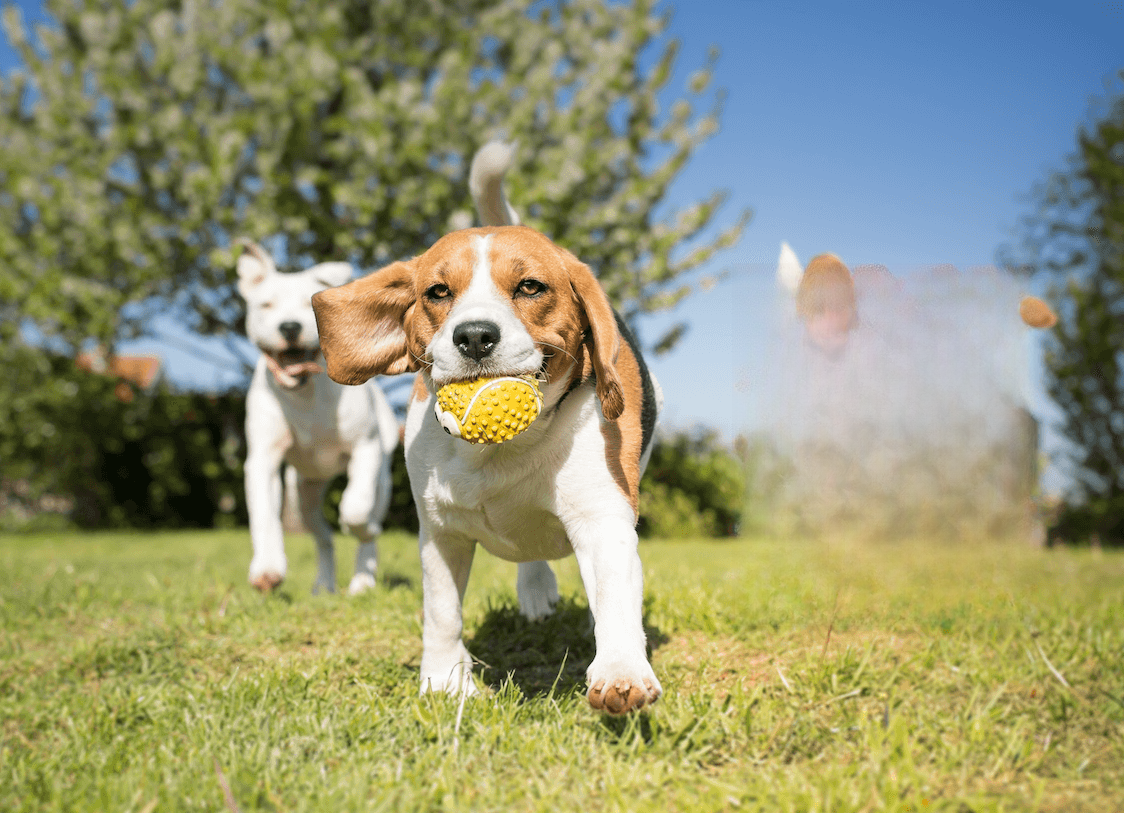
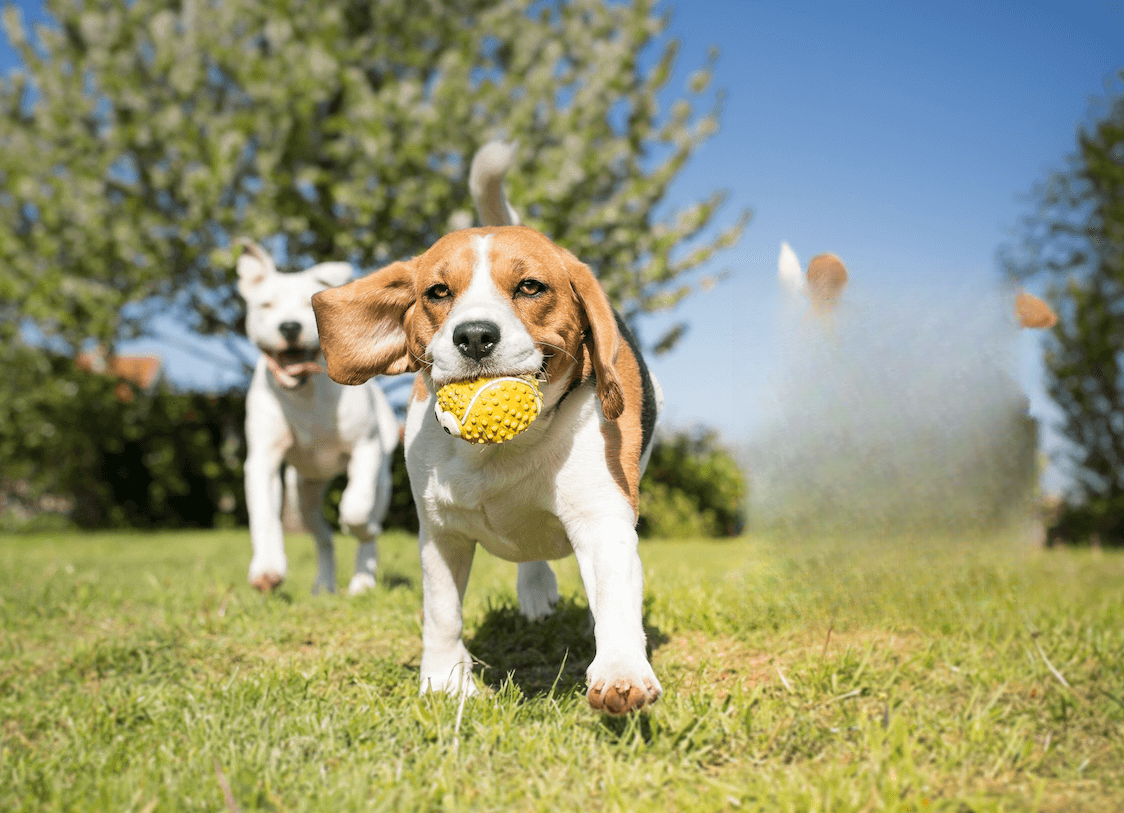
Changed from zits to lama model

Changed region(s): [[0.6539, 0.3075, 0.9342, 0.7688]]

diff --git a/predict.py b/predict.py
@@ -13,7 +13,7 @@ import cv2
 from model_manager import ModelManager
 from helper import norm_img
 from schema import Config, HDStrategy, LDMSampler
-from zits import ZITS
+from lama import LaMa
 
 NUM_THREADS = str(multiprocessing.cpu_count())
 
@@ -53,18 +53,18 @@ def set_input_photo():
 
 
 def run(image_path, mask_path):
-    device = torch.device('cuda')
+    device = torch.device('cpu')
 
-    model = ModelManager(name='zits', device=device)
+    model = ModelManager(name='lama', device=device)
 
     config = Config(
         ldm_steps=25,
         ldm_sampler=LDMSampler.plms,
-        hd_strategy=HDStrategy.CROP,
-        zits_wireframe=True,
+        hd_strategy=HDStrategy.RESIZE,
+        zits_wireframe=False,
         hd_strategy_crop_margin=128,
-        hd_strategy_crop_trigger_size=1024,
-        hd_strategy_resize_limit=1024,
+        hd_strategy_crop_trigger_size=2048,
+        hd_strategy_resize_limit=2048,
     )
 
     f = open(image_path, 'rb') 

diff --git a/model_manager.py b/model_manager.py
@@ -1,8 +1,8 @@
-from zits import ZITS
+from lama import LaMa
 from schema import Config
 
 models = {
-    'zits': ZITS,
+    'lama': LaMa,
 }
 
 class ModelManager:
